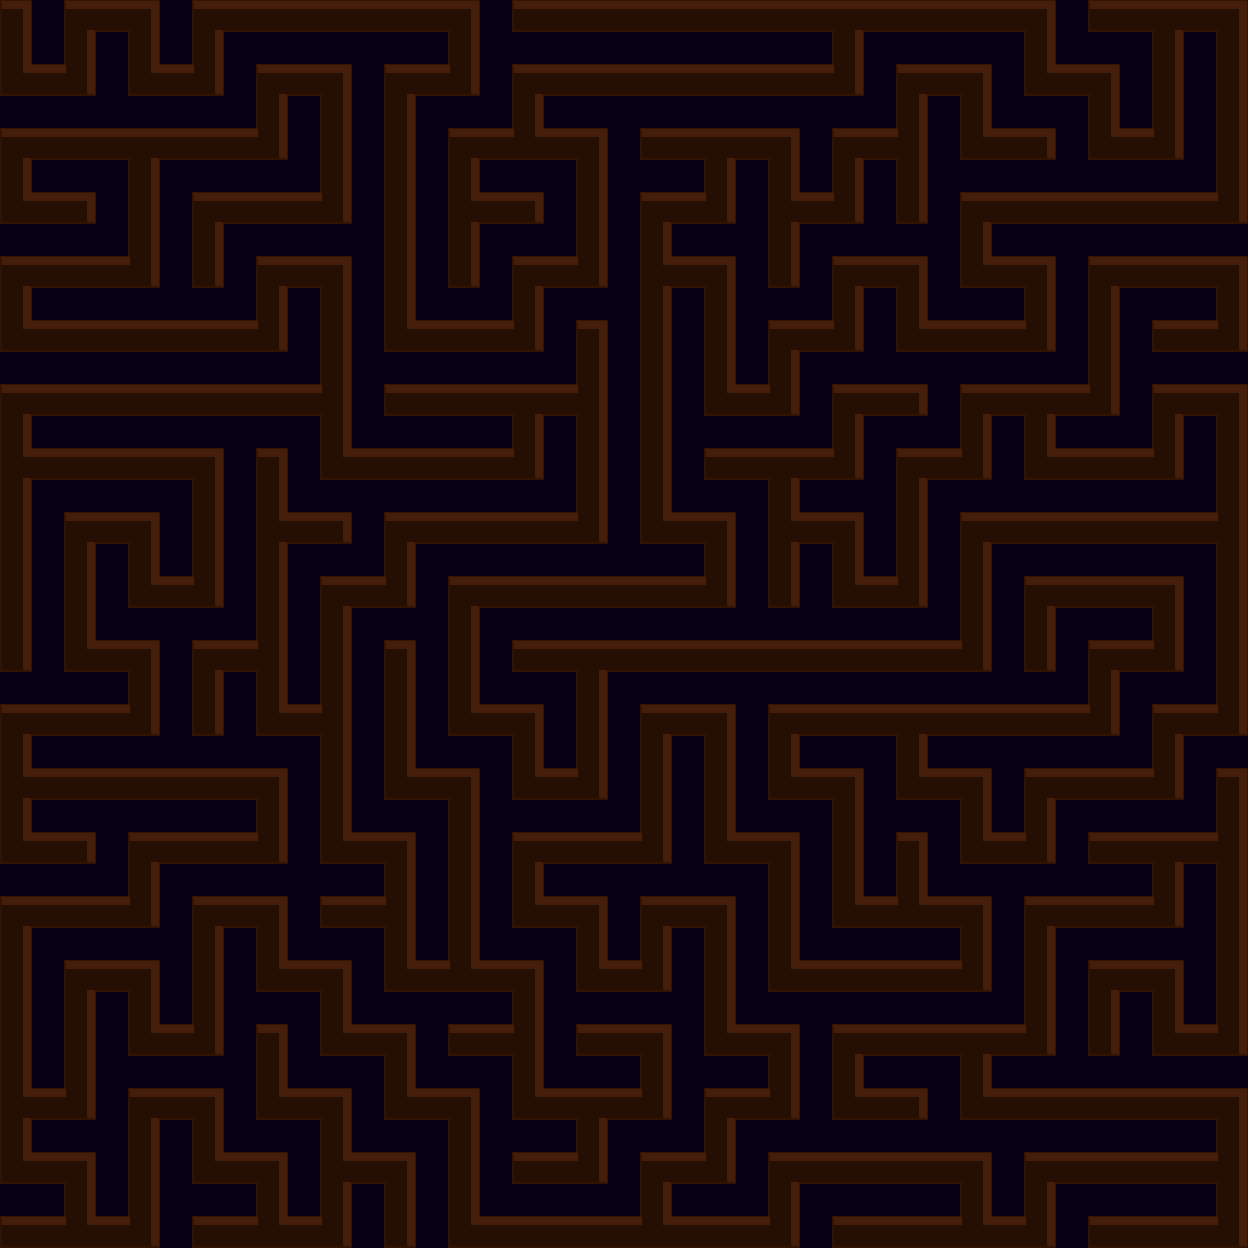
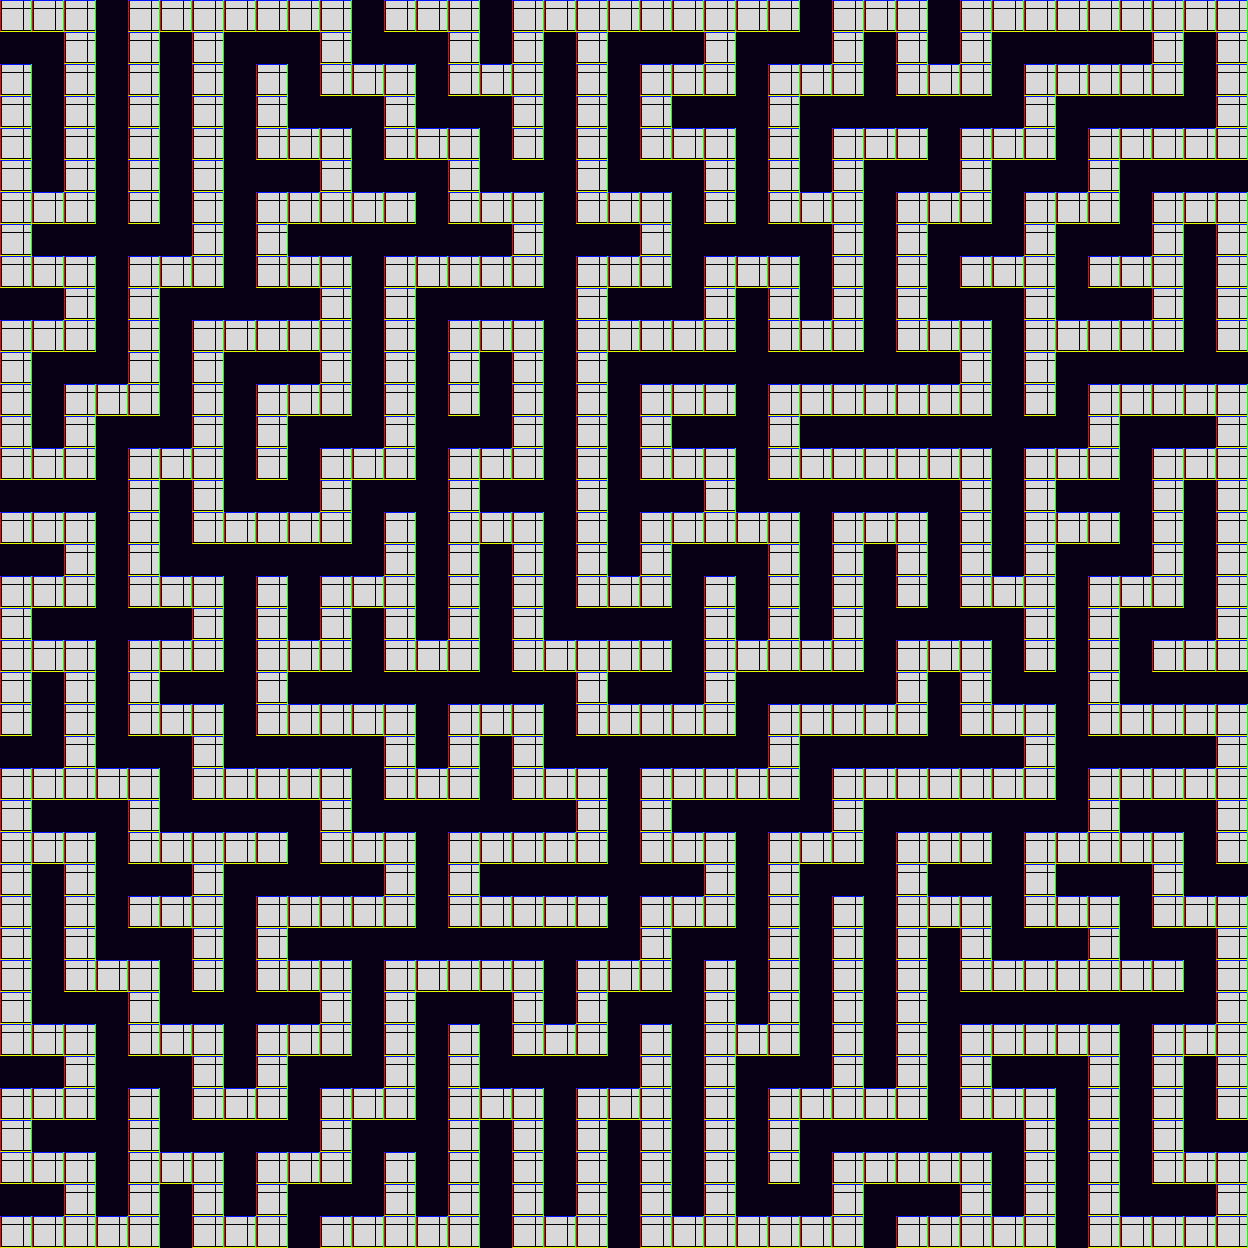
debugging tile offset

diff --git a/webapp/app/static/js/app.js b/webapp/app/static/js/app.js
@@ -111,8 +111,8 @@ const placeCharacter = function () {
     let prevTileY = currentTileY;
 
     // work out which tile in the spanning tree the player is in
-    currentTileX = roundTileCoord(((x) / positionCorrector) + 1);
-    currentTileY = roundTileCoord(((y) / positionCorrector) + 1);
+    currentTileX = roundTileCoord((x / positionCorrector) + 1);
+    currentTileY = roundTileCoord((y / positionCorrector) + 1);
 
 
     // if the next node is going to be between two nodes
@@ -130,7 +130,7 @@ const placeCharacter = function () {
     // get the coordinates of the tile and data from spanning tree
     let tileOriginX = (currentTileX - 1) * positionCorrector;
     let tileOriginY = (currentTileY - 1) * positionCorrector;
-    
+
     //console.log(x, y,'|', currentTileX, currentTileY,'|', tileOriginX, tileOriginY, '|', walls);
 
     // if (x < 0) { x = 0; } // left

diff --git a/webapp/app/generateMaze.py b/webapp/app/generateMaze.py
@@ -99,7 +99,8 @@ class MazeGenerator:
                 # pasting the correct image (correspoding with the walls list) onto the main background image
                 tile = mazePath / self._tileNames[node._key]
                 tileImg = Image.open(tile)
-                img.paste(tileImg, ((node._id[0]-1)*64, (node._id[1]-1)*64))
+                debug = Image.open(mazePath / 'debug-tile.png')
+                img.paste(debug, ((node._id[0]-1)*64, (node._id[1]-1)*64))
 
                 for adjNode in adjNodes:
                     # figuring out where to place adjacent corridors based
@@ -115,7 +116,7 @@ class MazeGenerator:
                         tile = mazePath / 'top-bottom-wall.png'
 
                     tileImg = Image.open(tile)
-                    img.paste(tileImg, (int((join_x-1)*64), int((join_y-1)*64)))
+                    img.paste(debug, (int((join_x-1)*64), int((join_y-1)*64)))
 
                 # saving hex keys to a string
                 mazeHex += node._key
